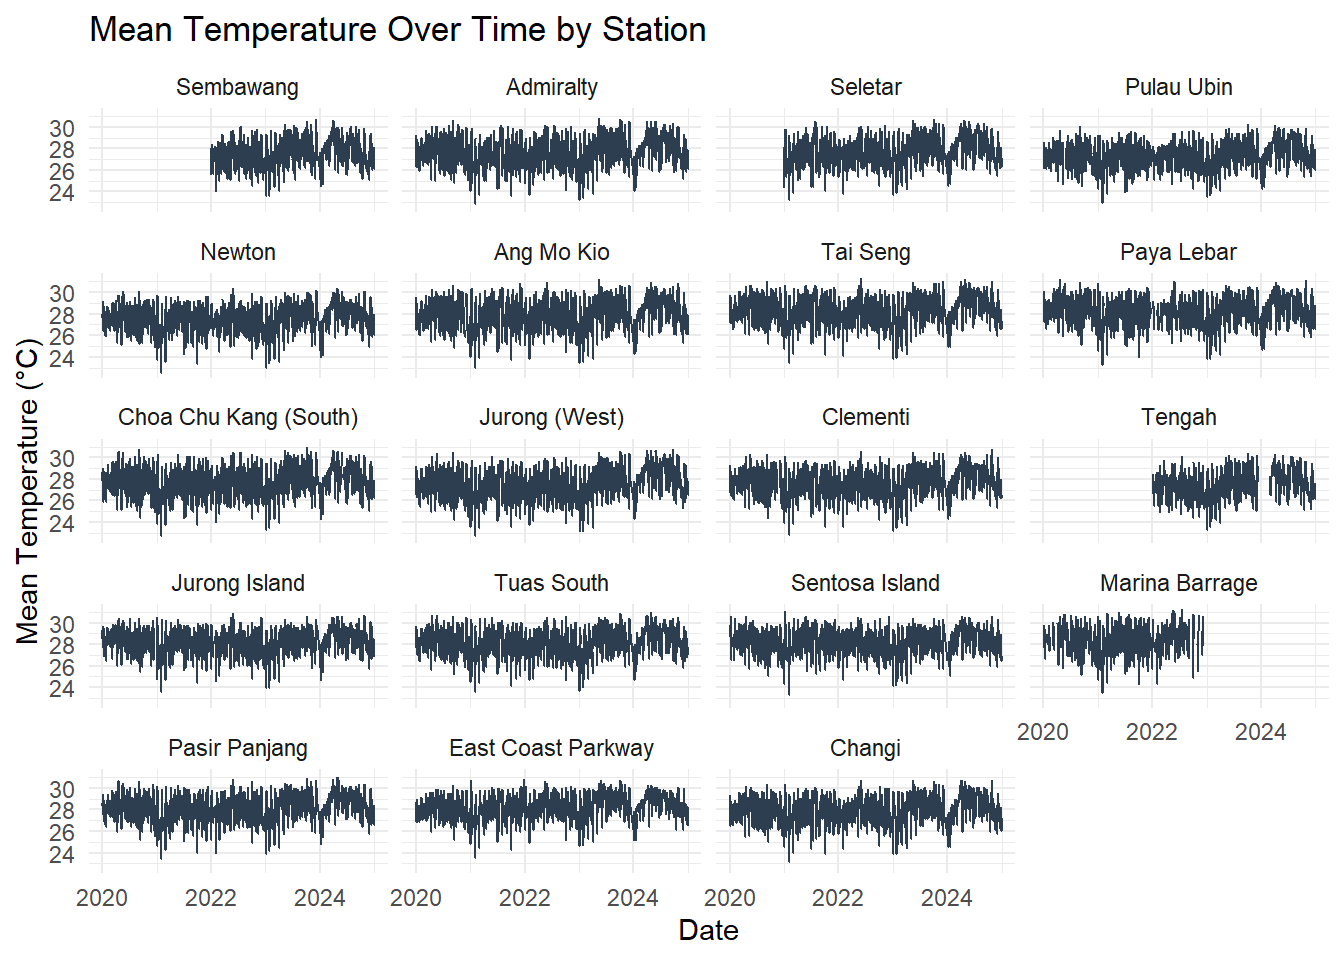
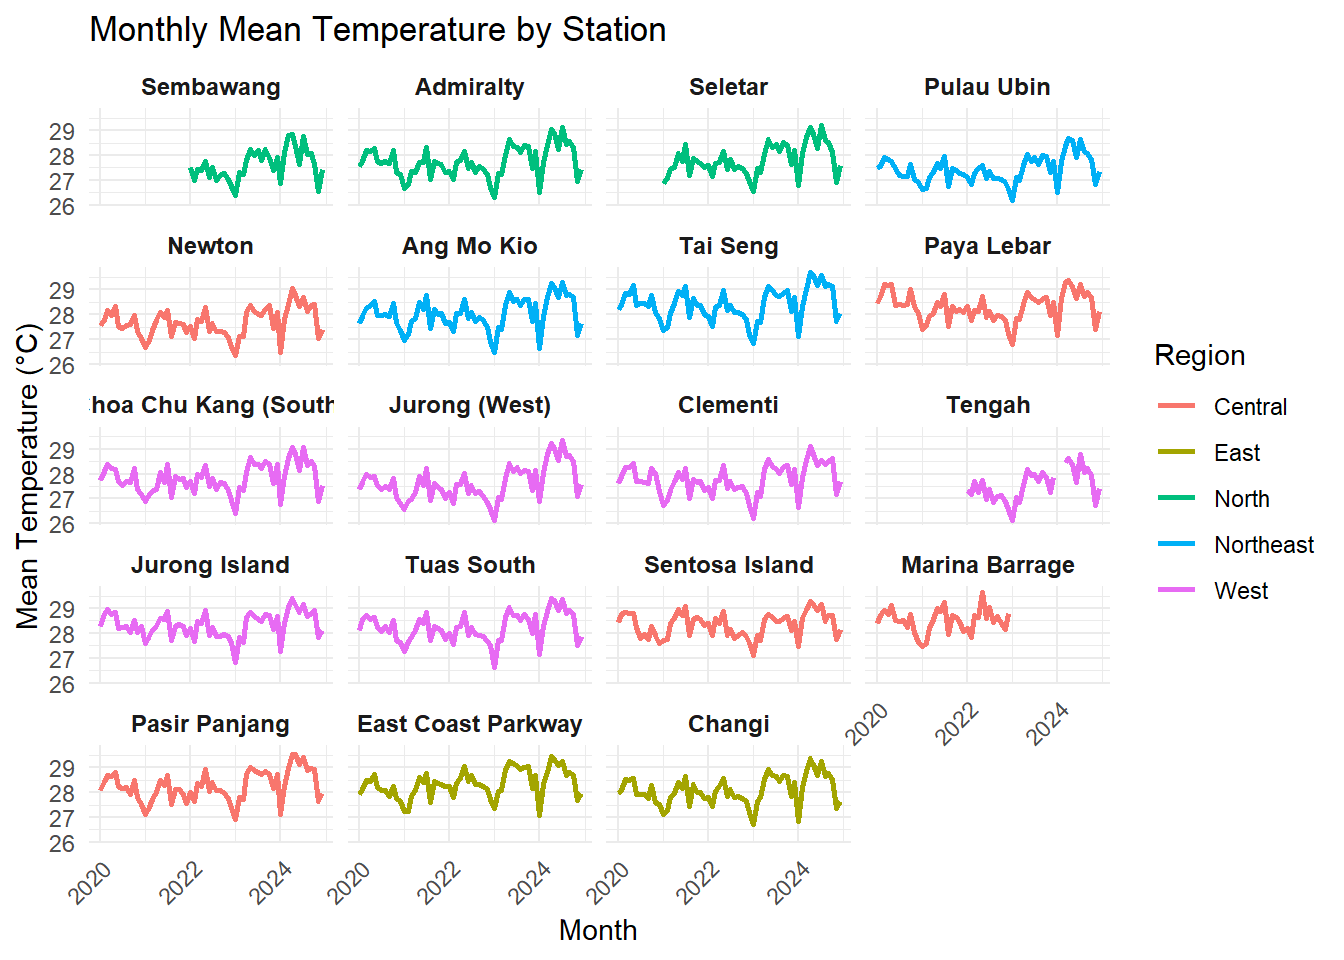
Commit after editing Take-home Exercise 3

diff --git a/_site/Take-home_Ex/Take-home_Ex03/Take-home_Ex03.html b/_site/Take-home_Ex/Take-home_Ex03/Take-home_Ex03.html
@@ -271,7 +271,11 @@ pre > code.sourceCode > span > a:first-child::before { text-decoration: underlin
   <li><a href="#load-required-packages" id="toc-load-required-packages" class="nav-link" data-scroll-target="#load-required-packages">Load Required Packages</a></li>
   <li><a href="#import-the-dataset" id="toc-import-the-dataset" class="nav-link" data-scroll-target="#import-the-dataset">Import the Dataset</a></li>
   <li><a href="#prepare-custom-geofacet-grid" id="toc-prepare-custom-geofacet-grid" class="nav-link" data-scroll-target="#prepare-custom-geofacet-grid">Prepare Custom Geofacet Grid</a></li>
-  <li><a href="#visualize-the-data-with-facet_geo" id="toc-visualize-the-data-with-facet_geo" class="nav-link" data-scroll-target="#visualize-the-data-with-facet_geo">Visualize the Data with <code>facet_geo()</code></a></li>
+  <li><a href="#visualize-the-data-with-facet_geo" id="toc-visualize-the-data-with-facet_geo" class="nav-link" data-scroll-target="#visualize-the-data-with-facet_geo">Visualize the Data with <code>facet_geo()</code></a>
+  <ul class="collapse">
+  <li><a href="#monthly-mean-temperature" id="toc-monthly-mean-temperature" class="nav-link" data-scroll-target="#monthly-mean-temperature">Monthly Mean Temperature:</a></li>
+  <li><a href="#yearly-mean-temperature" id="toc-yearly-mean-temperature" class="nav-link" data-scroll-target="#yearly-mean-temperature">Yearly Mean Temperature:</a></li>
+  </ul></li>
   </ul>
 </nav>
     </div>
@@ -365,14 +369,27 @@ date  (1): Date
 </section>
 <section id="visualize-the-data-with-facet_geo" class="level2">
 <h2 class="anchored" data-anchor-id="visualize-the-data-with-facet_geo">Visualize the Data with <code>facet_geo()</code></h2>
-<p>Assuming your dataset is named <code>weather_data</code> and includes a <code>Station</code>, <code>Date</code>, and <code>Mean Temperature (°C)</code> column:</p>
+<section id="monthly-mean-temperature" class="level3">
+<h3 class="anchored" data-anchor-id="monthly-mean-temperature">Monthly Mean Temperature:</h3>
 <div class="cell">
-<div class="sourceCode cell-code" id="cb5"><pre class="sourceCode r code-with-copy"><code class="sourceCode r"><span id="cb5-1"><a href="#cb5-1" aria-hidden="true" tabindex="-1"></a><span class="fu">ggplot</span>(weather_data, <span class="fu">aes</span>(<span class="at">x =</span> Date, <span class="at">y =</span> <span class="st">`</span><span class="at">Mean Temperature (°C)</span><span class="st">`</span>)) <span class="sc">+</span></span>
-<span id="cb5-2"><a href="#cb5-2" aria-hidden="true" tabindex="-1"></a>  <span class="fu">geom_line</span>(<span class="at">color =</span> <span class="st">"#2c3e50"</span>) <span class="sc">+</span></span>
-<span id="cb5-3"><a href="#cb5-3" aria-hidden="true" tabindex="-1"></a>  <span class="fu">facet_geo</span>(<span class="sc">~</span> Station, <span class="at">grid =</span> custom_grid) <span class="sc">+</span></span>
-<span id="cb5-4"><a href="#cb5-4" aria-hidden="true" tabindex="-1"></a>  <span class="fu">theme_minimal</span>() <span class="sc">+</span></span>
-<span id="cb5-5"><a href="#cb5-5" aria-hidden="true" tabindex="-1"></a>  <span class="fu">labs</span>(<span class="at">title =</span> <span class="st">"Mean Temperature Over Time by Station"</span>,</span>
-<span id="cb5-6"><a href="#cb5-6" aria-hidden="true" tabindex="-1"></a>       <span class="at">x =</span> <span class="st">"Date"</span>, <span class="at">y =</span> <span class="st">"Mean Temperature (°C)"</span>)</span></code><button title="Copy to Clipboard" class="code-copy-button"><i class="bi"></i></button></pre></div>
+<div class="sourceCode cell-code" id="cb5"><pre class="sourceCode r code-with-copy"><code class="sourceCode r"><span id="cb5-1"><a href="#cb5-1" aria-hidden="true" tabindex="-1"></a><span class="co"># Aggregate to monthly means</span></span>
+<span id="cb5-2"><a href="#cb5-2" aria-hidden="true" tabindex="-1"></a>weather_monthly <span class="ot">&lt;-</span> weather_data <span class="sc">%&gt;%</span></span>
+<span id="cb5-3"><a href="#cb5-3" aria-hidden="true" tabindex="-1"></a>  <span class="fu">mutate</span>(<span class="at">Month =</span> <span class="fu">floor_date</span>(Date, <span class="st">"month"</span>)) <span class="sc">%&gt;%</span></span>
+<span id="cb5-4"><a href="#cb5-4" aria-hidden="true" tabindex="-1"></a>  <span class="fu">group_by</span>(Station, Region, Month) <span class="sc">%&gt;%</span></span>
+<span id="cb5-5"><a href="#cb5-5" aria-hidden="true" tabindex="-1"></a>  <span class="fu">summarise</span>(<span class="st">`</span><span class="at">Mean Temperature (°C)</span><span class="st">`</span> <span class="ot">=</span> <span class="fu">mean</span>(<span class="st">`</span><span class="at">Mean Temperature (°C)</span><span class="st">`</span>, <span class="at">na.rm =</span> <span class="cn">TRUE</span>), <span class="at">.groups =</span> <span class="st">"drop"</span>)</span>
+<span id="cb5-6"><a href="#cb5-6" aria-hidden="true" tabindex="-1"></a></span>
+<span id="cb5-7"><a href="#cb5-7" aria-hidden="true" tabindex="-1"></a><span class="fu">ggplot</span>(weather_monthly, <span class="fu">aes</span>(<span class="at">x =</span> Month, <span class="at">y =</span> <span class="st">`</span><span class="at">Mean Temperature (°C)</span><span class="st">`</span>, <span class="at">color =</span> Region)) <span class="sc">+</span></span>
+<span id="cb5-8"><a href="#cb5-8" aria-hidden="true" tabindex="-1"></a>  <span class="fu">geom_line</span>(<span class="at">size =</span> <span class="dv">1</span>) <span class="sc">+</span>  <span class="co"># simple, clean</span></span>
+<span id="cb5-9"><a href="#cb5-9" aria-hidden="true" tabindex="-1"></a>  <span class="fu">facet_geo</span>(<span class="sc">~</span> Station, <span class="at">grid =</span> custom_grid) <span class="sc">+</span></span>
+<span id="cb5-10"><a href="#cb5-10" aria-hidden="true" tabindex="-1"></a>  <span class="fu">theme_minimal</span>() <span class="sc">+</span></span>
+<span id="cb5-11"><a href="#cb5-11" aria-hidden="true" tabindex="-1"></a>  <span class="fu">labs</span>(<span class="at">title =</span> <span class="st">"Monthly Mean Temperature by Station"</span>,</span>
+<span id="cb5-12"><a href="#cb5-12" aria-hidden="true" tabindex="-1"></a>       <span class="at">x =</span> <span class="st">"Month"</span>, <span class="at">y =</span> <span class="st">"Mean Temperature (°C)"</span>) <span class="sc">+</span></span>
+<span id="cb5-13"><a href="#cb5-13" aria-hidden="true" tabindex="-1"></a>  <span class="fu">theme</span>(<span class="at">strip.text =</span> <span class="fu">element_text</span>(<span class="at">size =</span> <span class="dv">9</span>, <span class="at">face =</span> <span class="st">"bold"</span>),</span>
+<span id="cb5-14"><a href="#cb5-14" aria-hidden="true" tabindex="-1"></a>        <span class="at">axis.text.x =</span> <span class="fu">element_text</span>(<span class="at">angle =</span> <span class="dv">45</span>, <span class="at">hjust =</span> <span class="dv">1</span>))</span></code><button title="Copy to Clipboard" class="code-copy-button"><i class="bi"></i></button></pre></div>
+<div class="cell-output cell-output-stderr">
+<pre><code>Warning: Using `size` aesthetic for lines was deprecated in ggplot2 3.4.0.
+ℹ Please use `linewidth` instead.</code></pre>
+</div>
 <div class="cell-output cell-output-stderr">
 <pre><code>Note: You provided a user-specified grid. If this is a generally-useful
   grid, please consider submitting it to become a part of the geofacet
@@ -380,7 +397,7 @@ date  (1): Date
   grid_submit(__grid_df_name__)</code></pre>
 </div>
 <div class="cell-output cell-output-stderr">
-<pre><code>Warning: Removed 731 rows containing missing values or values outside the scale range
+<pre><code>Warning: Removed 24 rows containing missing values or values outside the scale range
 (`geom_line()`).</code></pre>
 </div>
 <div class="cell-output-display">
@@ -391,8 +408,45 @@ date  (1): Date
 </div>
 </div>
 </div>
+</section>
+<section id="yearly-mean-temperature" class="level3">
+<h3 class="anchored" data-anchor-id="yearly-mean-temperature">Yearly Mean Temperature:</h3>
+<div class="cell">
+<div class="sourceCode cell-code" id="cb9"><pre class="sourceCode r code-with-copy"><code class="sourceCode r"><span id="cb9-1"><a href="#cb9-1" aria-hidden="true" tabindex="-1"></a><span class="co"># Aggregate to yearly means</span></span>
+<span id="cb9-2"><a href="#cb9-2" aria-hidden="true" tabindex="-1"></a>weather_yearly <span class="ot">&lt;-</span> weather_data <span class="sc">%&gt;%</span></span>
+<span id="cb9-3"><a href="#cb9-3" aria-hidden="true" tabindex="-1"></a>  <span class="fu">mutate</span>(<span class="at">Year =</span> <span class="fu">year</span>(Date)) <span class="sc">%&gt;%</span></span>
+<span id="cb9-4"><a href="#cb9-4" aria-hidden="true" tabindex="-1"></a>  <span class="fu">group_by</span>(Station, Region, Year) <span class="sc">%&gt;%</span></span>
+<span id="cb9-5"><a href="#cb9-5" aria-hidden="true" tabindex="-1"></a>  <span class="fu">summarise</span>(<span class="st">`</span><span class="at">Mean Temperature (°C)</span><span class="st">`</span> <span class="ot">=</span> <span class="fu">mean</span>(<span class="st">`</span><span class="at">Mean Temperature (°C)</span><span class="st">`</span>, <span class="at">na.rm =</span> <span class="cn">TRUE</span>), <span class="at">.groups =</span> <span class="st">"drop"</span>)</span>
+<span id="cb9-6"><a href="#cb9-6" aria-hidden="true" tabindex="-1"></a></span>
+<span id="cb9-7"><a href="#cb9-7" aria-hidden="true" tabindex="-1"></a><span class="fu">ggplot</span>(weather_yearly, <span class="fu">aes</span>(<span class="at">x =</span> Year, <span class="at">y =</span> <span class="st">`</span><span class="at">Mean Temperature (°C)</span><span class="st">`</span>, <span class="at">color =</span> Region)) <span class="sc">+</span></span>
+<span id="cb9-8"><a href="#cb9-8" aria-hidden="true" tabindex="-1"></a>  <span class="fu">geom_line</span>(<span class="at">size =</span> <span class="dv">1</span>) <span class="sc">+</span>  <span class="co"># simple, clean</span></span>
+<span id="cb9-9"><a href="#cb9-9" aria-hidden="true" tabindex="-1"></a>  <span class="fu">facet_geo</span>(<span class="sc">~</span> Station, <span class="at">grid =</span> custom_grid) <span class="sc">+</span></span>
+<span id="cb9-10"><a href="#cb9-10" aria-hidden="true" tabindex="-1"></a>  <span class="fu">theme_minimal</span>() <span class="sc">+</span></span>
+<span id="cb9-11"><a href="#cb9-11" aria-hidden="true" tabindex="-1"></a>  <span class="fu">labs</span>(<span class="at">title =</span> <span class="st">"Yearly Mean Temperature by Station"</span>,</span>
+<span id="cb9-12"><a href="#cb9-12" aria-hidden="true" tabindex="-1"></a>       <span class="at">x =</span> <span class="st">"Year"</span>, <span class="at">y =</span> <span class="st">"Mean Temperature (°C)"</span>) <span class="sc">+</span></span>
+<span id="cb9-13"><a href="#cb9-13" aria-hidden="true" tabindex="-1"></a>  <span class="fu">theme</span>(<span class="at">strip.text =</span> <span class="fu">element_text</span>(<span class="at">size =</span> <span class="dv">9</span>, <span class="at">face =</span> <span class="st">"bold"</span>),</span>
+<span id="cb9-14"><a href="#cb9-14" aria-hidden="true" tabindex="-1"></a>        <span class="at">axis.text.x =</span> <span class="fu">element_text</span>(<span class="at">angle =</span> <span class="dv">45</span>, <span class="at">hjust =</span> <span class="dv">1</span>))</span></code><button title="Copy to Clipboard" class="code-copy-button"><i class="bi"></i></button></pre></div>
+<div class="cell-output cell-output-stderr">
+<pre><code>Note: You provided a user-specified grid. If this is a generally-useful
+  grid, please consider submitting it to become a part of the geofacet
+  package. You can do this easily by calling:
+  grid_submit(__grid_df_name__)</code></pre>
+</div>
+<div class="cell-output cell-output-stderr">
+<pre><code>Warning: Removed 2 rows containing missing values or values outside the scale range
+(`geom_line()`).</code></pre>
+</div>
+<div class="cell-output-display">
+<div>
+<figure class="figure">
+<p><img src="Take-home_Ex03_files/figure-html/unnamed-chunk-5-1.png" class="img-fluid figure-img" width="672"></p>
+</figure>
+</div>
+</div>
+</div>
 
 
+</section>
 </section>
 
 </main> <!-- /main -->
